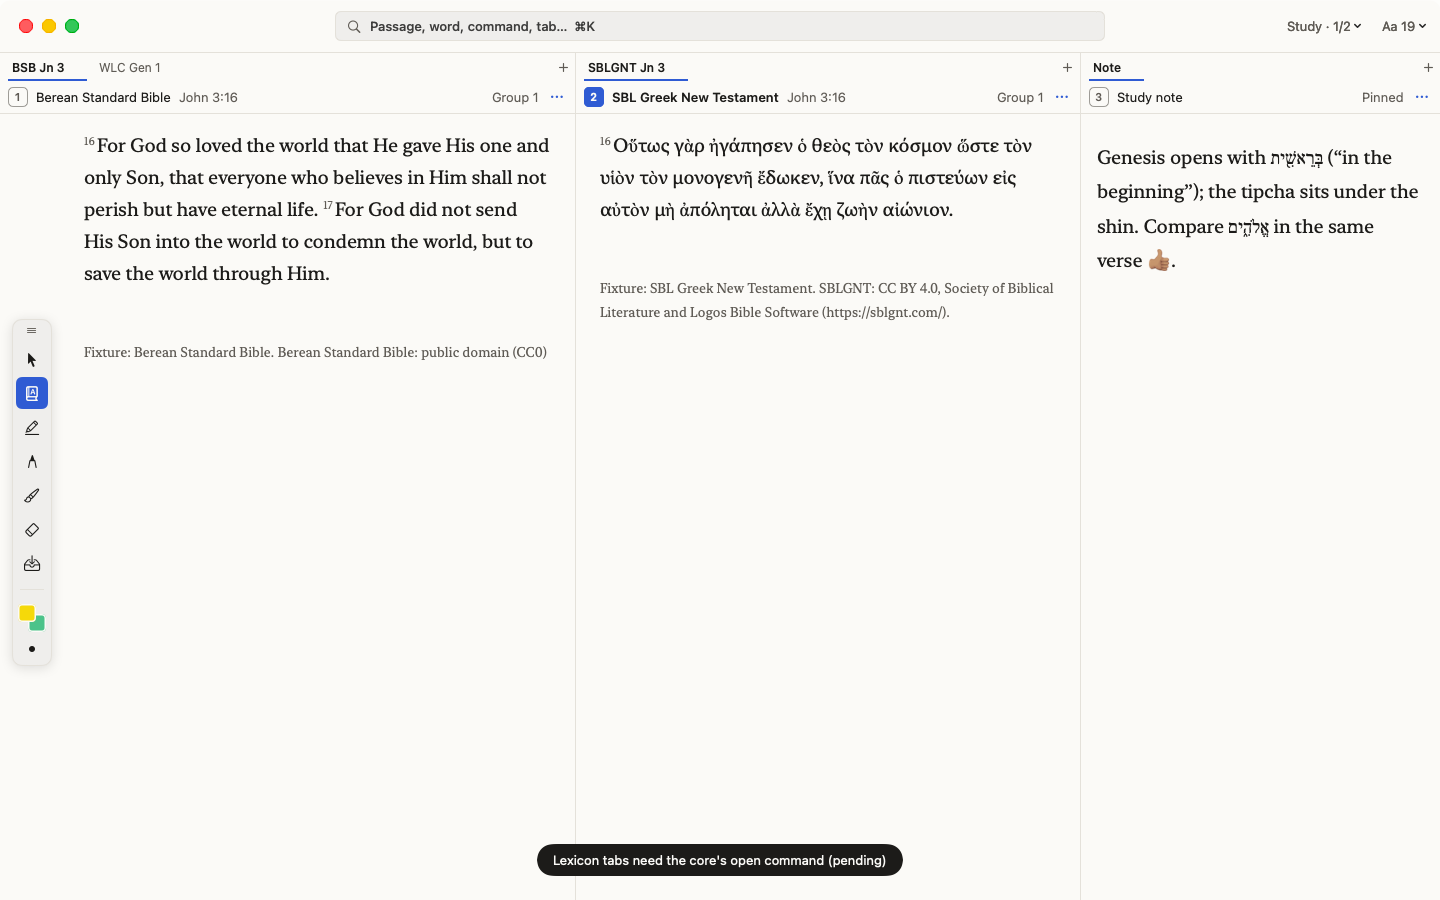
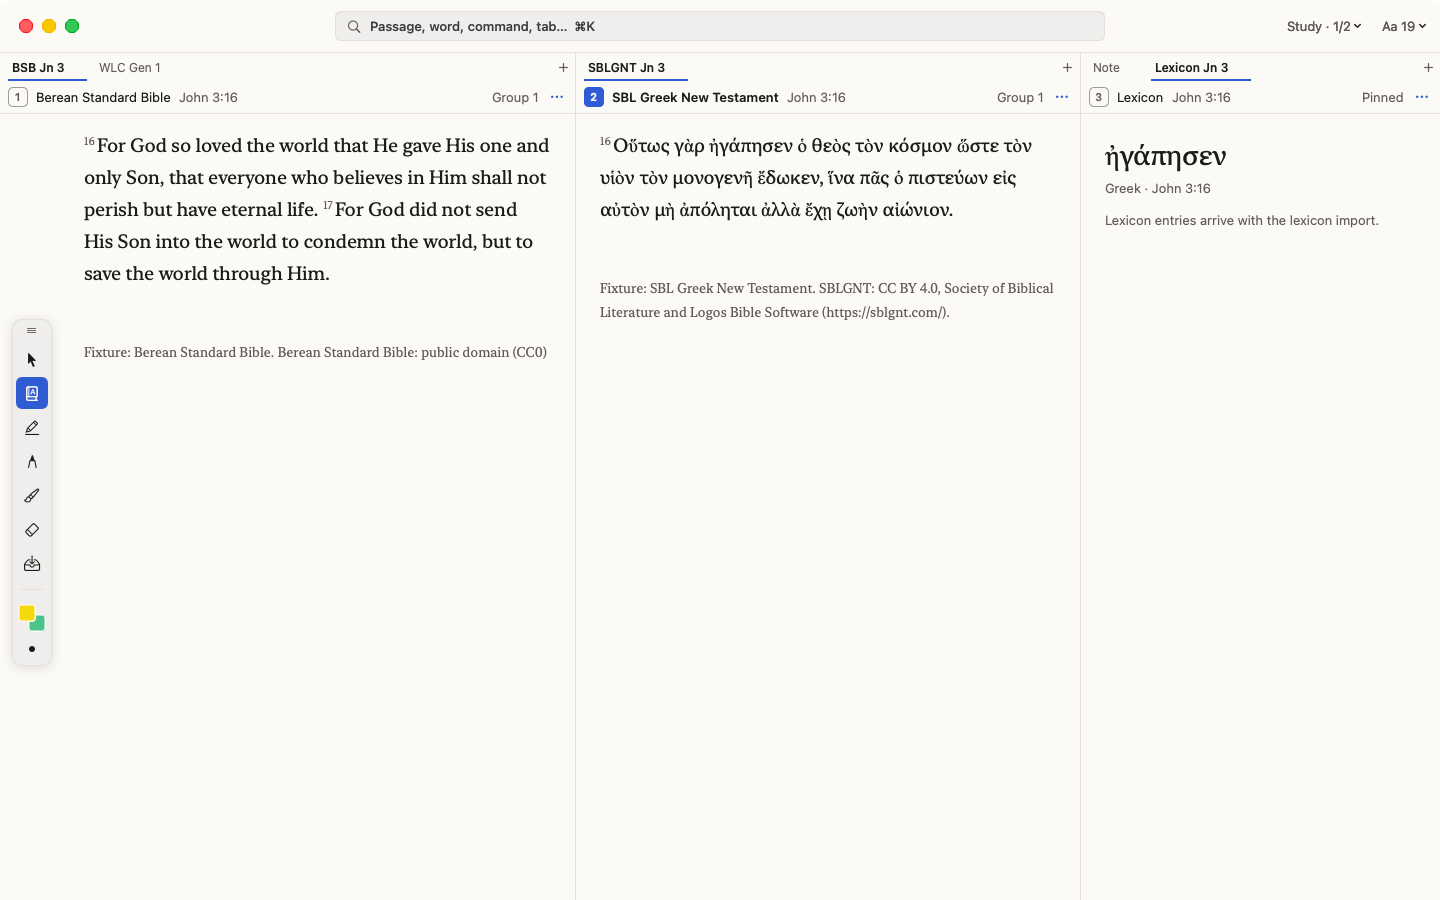
B076 Mac: pictures retaken with the Lexicon tab, conformance counts 1355, evidence
Claude-Session: https://claude.ai/code/session_01PSjqcsLRcrsvGQzbzBAjnV

Changed region(s): [[0.75, 0.1556, 0.9688, 0.3111], [0.375, 0.9333, 0.625, 0.9956], [0.75, 0.0622, 0.875, 0.1244]]

diff --git a/docs/evidence/B076-mac.md b/docs/evidence/B076-mac.md
@@ -1,0 +1,145 @@
+# B076 evidence (Mac) — the contextual tool well in the Mac shell
+
+Recorded 30 October 2026 on the Mac mini (Apple M1, Xcode 26.6) in the worktree
+`openlogos-b076mac`, branch `b076-mac-well`, cut from `b076-core-well` (a8f7433). Work was
+done by a Claude Code subagent. Nothing was pushed or merged; no simulator, keychain or macOS
+user was touched. Only fixture text is on screen. The web half is `b076-web-well`
+(B076-web.md); the core part is B076-core.md.
+
+## What works
+
+| Item (B076 host brief) | Where |
+|---|---|
+| The well is drawn from `toolWell(context:)` groups in core order, rebuilt on every focus, tab, selection and session change. Every command carries `ShellCommandContext(hasSelection:, focus:)` (`applyIn`, `commandsIn`, palette `focus`). `setResourceLanguages` is called beside `setResourceTitles` (`bsb en`, `sblgnt grc`, `wlc hbo`). | `Sources/Shell/ShellModel.swift` (`focus`, `well`, `commandContext`, `refreshWell`), `TextSource.swift` |
+| Groups: tools; a divider and the ink group (two overlapping swatches, X or click swaps, a context menu picks one of the four token swatches; the width dot) on translation and original; a divider and the selection group while text is selected. The well's top is placed by B072's well height, so a context with more or fewer tools and the selection group grow or shrink it downward only. Buttons are keyed by command id, so the tools that remain do not relayout; only the selection group fades (0.1 s). | `Sources/Shell/ToolWell.swift` |
+| Active = filled accent button, accessibility value "current tool". Tooltip `Label (⌘B)`, `Label` without a key, `Label (P) — reason` when disabled; disabled items at 40 % and not clickable. | `ToolWell.ToolButton`, `ToolWell.tooltip` |
+| Effective tool: drag mode, ink and the active button follow `well.effectiveTool`; the stored tool stays stored and comes back. A bare key outside its context shows the core's words as a toast (`Word study works on Greek and Hebrew text`). ⌘B / ⌘I pass on unless a note editor has focus. | `ShellModel.effectiveTool`, `handle(chord:)` |
+| Focus: a click in a column or its text is `tab`; the notes dock's editor taking focus is `notes_dock`; closing the dock gives focus back to the tab. | `ShellModel.setFocus`, `NoteEditorView.onFocus` |
+| Word study: in an original column with W, a click hands the word under it (through the anchor round trip) to the host; `tab.open_lexicon` opens or reuses the Lexicon tab in the next column (a new column after the last); focus stays on the clicked column so Word study goes on. The tab shows the word as clicked, `Greek · John 3:16` and "Lexicon entries arrive with the lexicon import." | `ReaderTextView.swift` (`ReaderDragMode.word`), `ShellModel.openWordStudy`, `Sources/Shell/LexiconView.swift` |
+| Notes: notes tabs and the dock are `NSTextView` editors (TextKit 2), in memory until B074, one document per note shared by its editors. Bold, Italic (⌘B/⌘I while editing), Heading (reading size + 4, semibold), List (`• ` bullets toggle), Link passage (well button opens the palette with `link passage `; the palette's row runs `note.link_passage` with the passage; selected words become the link, else `John 3:16` is inserted). Links are accent + underline; a click opens the passage in the active column if it reads Bible text, else the first reading column. Edits are undoable in the editor. | `Sources/Shell/NoteEditor.swift` |
+| Selection actions: Highlight now, Collect, Study as in B072; Note on it appends `> “quoted text” — John 3:16` (the passage a link) as a new paragraph to the open note (dock if open, else a shown notes tab, else it opens the dock); Search this (⌘E) puts the text in the palette and opens it; Copy reference puts `John 3:16` (`John 3:16–17` for a range) on the pasteboard and toasts `Copied John 3:16`. | `ShellModel` (MARK: Selection actions and notes) |
+| Launch hooks for the pictures: `-OPENLOGOS_SELECT`, `-OPENLOGOS_WORD`, `-OPENLOGOS_NOTE_DEMO`, `-OPENLOGOS_FOCUS dock`; speed rows in `ShellMeasure`. | `ShellLaunch.swift`, `ShellMeasure.swift`, `scripts/b076-mac-shots.sh` |
+| Fix found on the way: tab ids repeat across workspaces (`t1`), and a released workspace's reading surface could re-register under the shown tab's id after a workspace switch, so the host read the old text. `register` now ignores a surface whose content is not the tab's resource. | `ShellModel.register` |
+
+### Icons (core name → SF Symbol → meaning the web SVG draws)
+
+| Core icon | SF Symbol | Meaning |
+|---|---|---|
+| `select` | `cursorarrow` | arrow pointer |
+| `word-study` | `character.book.closed` | closed book with a letter |
+| `highlight` | `highlighter` | highlighter marker |
+| `pen` | `pencil.tip` | pencil tip |
+| `highlighter-pen` | `paintbrush.pointed` | pointed brush |
+| `eraser` | `eraser` | eraser |
+| `collect` | `tray.and.arrow.down` | tray with a down arrow |
+| `type` | `character.cursor.ibeam` | letter with an I-beam |
+| `bold` | `bold` | B |
+| `italic` | `italic` | slanted I |
+| `heading` | `textformat.size` | small and large A |
+| `list` | `list.bullet` | bulleted list |
+| `link-passage` | `link` | chain link |
+| `swatch`, `swatch-alternate` | drawn | two overlapping rounded squares in the swatch colours |
+| `brush-width` | drawn | filled dot sized by the width |
+| `highlight-now` | `highlighter` | highlighter marker (in the selection group) |
+| `note` | `note.text.badge.plus` | note with a plus |
+| `search` | `magnifyingglass` | magnifier |
+| `copy-reference` | `doc.on.doc` | two stacked pages |
+| `study` | `book` | open book |
+
+## Core change (additive, loud)
+
+`73228e6` adds **one** command to `crates/`: `tab.open_lexicon` ("Open in lexicon", scope tab,
+argument reference, undoable, core-performed), appended after `selection.copy_reference`.
+Nothing in the core could create a tab of kind `lexicon` (`tab.new`, `column.new` and
+`nav.navigate` copy the active tab), so Word study could not open its tab otherwise. It opens or
+reuses the Lexicon tab (`content_id` `lexicon`, pinned) of the column after the active one,
+adds one to that column, or inserts a column after the last; the active column does not change.
+Conformance: the id in `shell-commands` `registry_ids` and a "word study lexicon tab" scenario
+(reuse, add to the next column, undo, new column after the last, missing passage). Total
+conformance is 1355 cases (host READMEs updated). No wasm or UniFFI type changed (it is a
+registry command). The web agent was told to cherry-pick `73228e6`.
+
+## Speed (specs/22 §7, Release, 10 × 3 × 4 session, 240 samples per row)
+
+`work` = the command through a synchronous layout and display of the window (B072's harness).
+
+| Interaction (budget) | 1440 × 900 work p50 / p95 / max ms | next frame p95 | 1024 × 768 work p50 / p95 / max ms | next frame p95 |
+|---|---:|---:|---:|---:|
+| **Column focus, original ↔ translation (the well changes)** (16) | 10.5 / 10.7 / 11.1 | 16.7 | 10.6 / 10.9 / 11.7 | 16.7 |
+| **Translation → notes dock (the well changes)** (16) | 7.0 / 7.6 / 10.0 | 22.4 | 7.1 / 7.5 / 8.9 | 22.4 |
+| **Selection appears → selection group drawn** (16) | 8.1 / 8.3 / 9.9 | 24.4 | 8.7 / 9.3 / 12.0 | 23.8 |
+| Palette keystroke (16) | 4.2 / 9.4 / 16.2 | 16.7 | 4.1 / 12.4 / 19.9 | 16.7 |
+| Tab switch within a column (16) | 11.6 / 14.1 / 17.8 | 16.7 | 11.6 / 13.9 / 14.6 | 16.7 |
+| Column focus, columns 1–3 (16) | 7.8 / 8.9 / 10.0 | 16.7 | 7.8 / 7.9 / 8.4 | 16.7 |
+| Workspace switch (100) | 37.0 / 39.4 / 50.1 | 56.7 | 37.6 / 39.6 / 48.6 | 56.3 |
+| Tool change (16) | 8.2 / 9.8 / 10.2 | 16.7 | 8.2 / 9.8 / 10.5 | 16.7 |
+| Open a chapter, warm (100) | 11.4 / 11.6 / 14.3 | 16.7 | 11.5 / 12.0 / 13.2 | 16.7 |
+
+Every p95 is within budget, and the B072 rows are at B072's level (B072 p95 at 1440: palette
+8.6, tab switch 14.9, column focus 9.6, workspace 48.7, tool 10.0, chapter 12.6). Palette p95 at
+1024 is 12.4 (B072 12.4). Single runs vary by 1–3 ms p95 on this machine (an earlier run today
+had tab switch at 1024 at 15.6). The next-frame p95 of the two rows with a `prepare` step is
+above 16.7 because the reset (back to the tab / clearing the selection) is drawn in the same
+display-link frame just before the timed action; the work column is the interaction itself.
+Raw JSON: `artifacts/b076/measure-1440.json`, `measure-1024.json` (gitignored).
+
+## Tests (`just test-reader mac`)
+
+44 cases in OpenLogosMacTests: 8 reader, 10 ink, 16 shell (B072, two updated: the token-file
+test compares the token file's tools with the core's translation well; the TextKit 2 test
+checks reading columns only, the notes column is an editor now) and 10 new in
+`Tests/ShellTests/ToolWellTests.swift`: `testTheWellFollowsTheFocusedTab` (translation,
+original Greek and Hebrew, notes tab, notes dock, dock closing) ·
+`testIconsMapToSymbolsAndTooltipsCarryKeys` (every symbol exists) ·
+`testAStoredToolSurvivesAContextThatDoesNotOfferIt` (Pen → Type in notes → Pen; Word study →
+Select → Word study) · `testABareKeyOutsideItsContextSaysWhyInAToast` ·
+`testTheNewKeysComeFromTheRegistry` (W, T, ⌘B, ⌘I, ⌘E) ·
+`testASelectionAddsItsGroupBelowWithoutMovingTheTools` ·
+`testWordStudyOpensTheWordInALexiconTabInTheNextColumn` (open, reuse, new column, undo) ·
+`testCopyReferenceAndSearchThis` · `testNoteOnItAppendsTheQuoteToTheOpenNote` (notes tab; dock
+opened in a workspace without notes) · `testNotesTakeBoldItalicHeadingListAndPassageLinks`
+(⌘B in the editor, toggles, heading, list, link insert, link click navigates column 1, the
+palette's Link passage row).
+
+## Screenshots (`docs/evidence/B076/`, 6 PNGs, 1440 × 900)
+
+`mac-translation-well` (BSB focused: six tools and ink) · `mac-original-word-study` (SBLGNT with
+Word study active, ἠγάπησεν in the Lexicon tab of column 3) · `mac-notes-editing` (the notes
+column being edited: a heading, **so loved** in bold and a John 3:16 link; the notes well) ·
+`mac-selection-group` (a selection in BSB, the selection group under the ink) ·
+`mac-fallback-pen-notes` (Pen stored, the dock focused: Type active) ·
+`mac-original-selection-dark` (dark theme, Greek selection, original well with the selection
+group). `scripts/b076-mac-shots.sh` retakes them.
+
+## Lanes (committed tree)
+
+| Command | Result |
+|---|---|
+| `nix develop .#core -c just ci` | exit 0. `Summary [   6.900s] 306 tests run: 306 passed, 0 skipped` |
+| `nix develop .#apple -c just test-reader mac` | exit 0. `Executed 44 tests, with 0 failures (0 unexpected)` |
+| `nix develop .#apple -c just test-swift` | exit 0. `Executed 8 tests, with 0 failures (0 unexpected)`; `conformance cases: 1355 passed, 0 failed` |
+| `nix develop .#core -c python3 tools/validate.py` | PASS: 33 schema/example validations; 76 acyclic tasks; 19 conformance fixtures; 125 negative tests |
+
+## Deviations
+
+1. **A core command** (`tab.open_lexicon`), above; the brief asked for none unless needed.
+2. **Note on it** writes `> “quoted text” — John 3:16` with curly quotes around the quotation
+   and the passage as a link; the `> ` stays as text (no block-quote styling).
+3. **The note editor is rich text, not markdown**: bold, italic, headings and links are
+   attributes; nothing is persisted (B074 decides the stored form).
+4. **The swatch item's value** is chosen from a context menu on the swatch pair; a click
+   still swaps (B072 behaviour). The width dot still cycles widths on click.
+5. **Selection group in notes**: a reading selection stays the selection when focus moves to
+   the note, so its group shows there and Note on it can be used from the note.
+
+## For the owner
+
+- Should Word study's Lexicon tab sit in the next column even when that column is the notes
+  column (it does today: it becomes a tab beside the note)?
+- Is `> “…” — John 3:16` the quoted form you want in notes, or a styled block quote?
+- Should ⌘B / ⌘I do anything outside a note (today they pass on to the system)?
+
+## Skipped
+
+iPad (B075): the note editor is AppKit-only; iOS keeps B072's read-only note through a stub.
+No persistence of notes (B074). Lexicon content (the lexicon import).

diff --git a/apps/android/README.md b/apps/android/README.md
@@ -29,7 +29,7 @@ that the Kotlin bindings generated from `crates/ffi` load the Rust core through 
 the same answers as the Rust and Swift tests: `apiVersion()`, `parseReference("Jn 3:16, 18;
 Rom 8:28-30")`, every fixture selection as a UTF-16 round trip through `selectionToAnchors`
 and `anchorToUtf16`, `mapVerse` on the Psalm 9/10 table, `reanchor`, and
-`runConformance().failed == 0u` (1337 cases). It needs neither the Android SDK nor the NDK.
+`runConformance().failed == 0u` (1355 cases). It needs neither the Android SDK nor the NDK.
 
 ```sh
 nix develop .#android

diff --git a/apps/apple/README.md b/apps/apple/README.md
@@ -177,7 +177,7 @@ scripts/b076-mac-shots.sh measure    # the §7 run with the well rows (Release, 
 generated from `crates/ffi` link against the Rust core and give the same answers as the Rust
 tests: `apiVersion()`, `parseReference("Jn 3:16, 18; Rom 8:28-30")`, every fixture selection as
 a UTF-16 round trip through `selectionToAnchors` and `anchorToUtf16`, `mapVerse` on the Psalm
-9/10 table, `reanchor`, and `runConformance().failed == 0` (1337 cases).
+9/10 table, `reanchor`, and `runConformance().failed == 0` (1355 cases).
 
 ```sh
 nix develop .#apple
